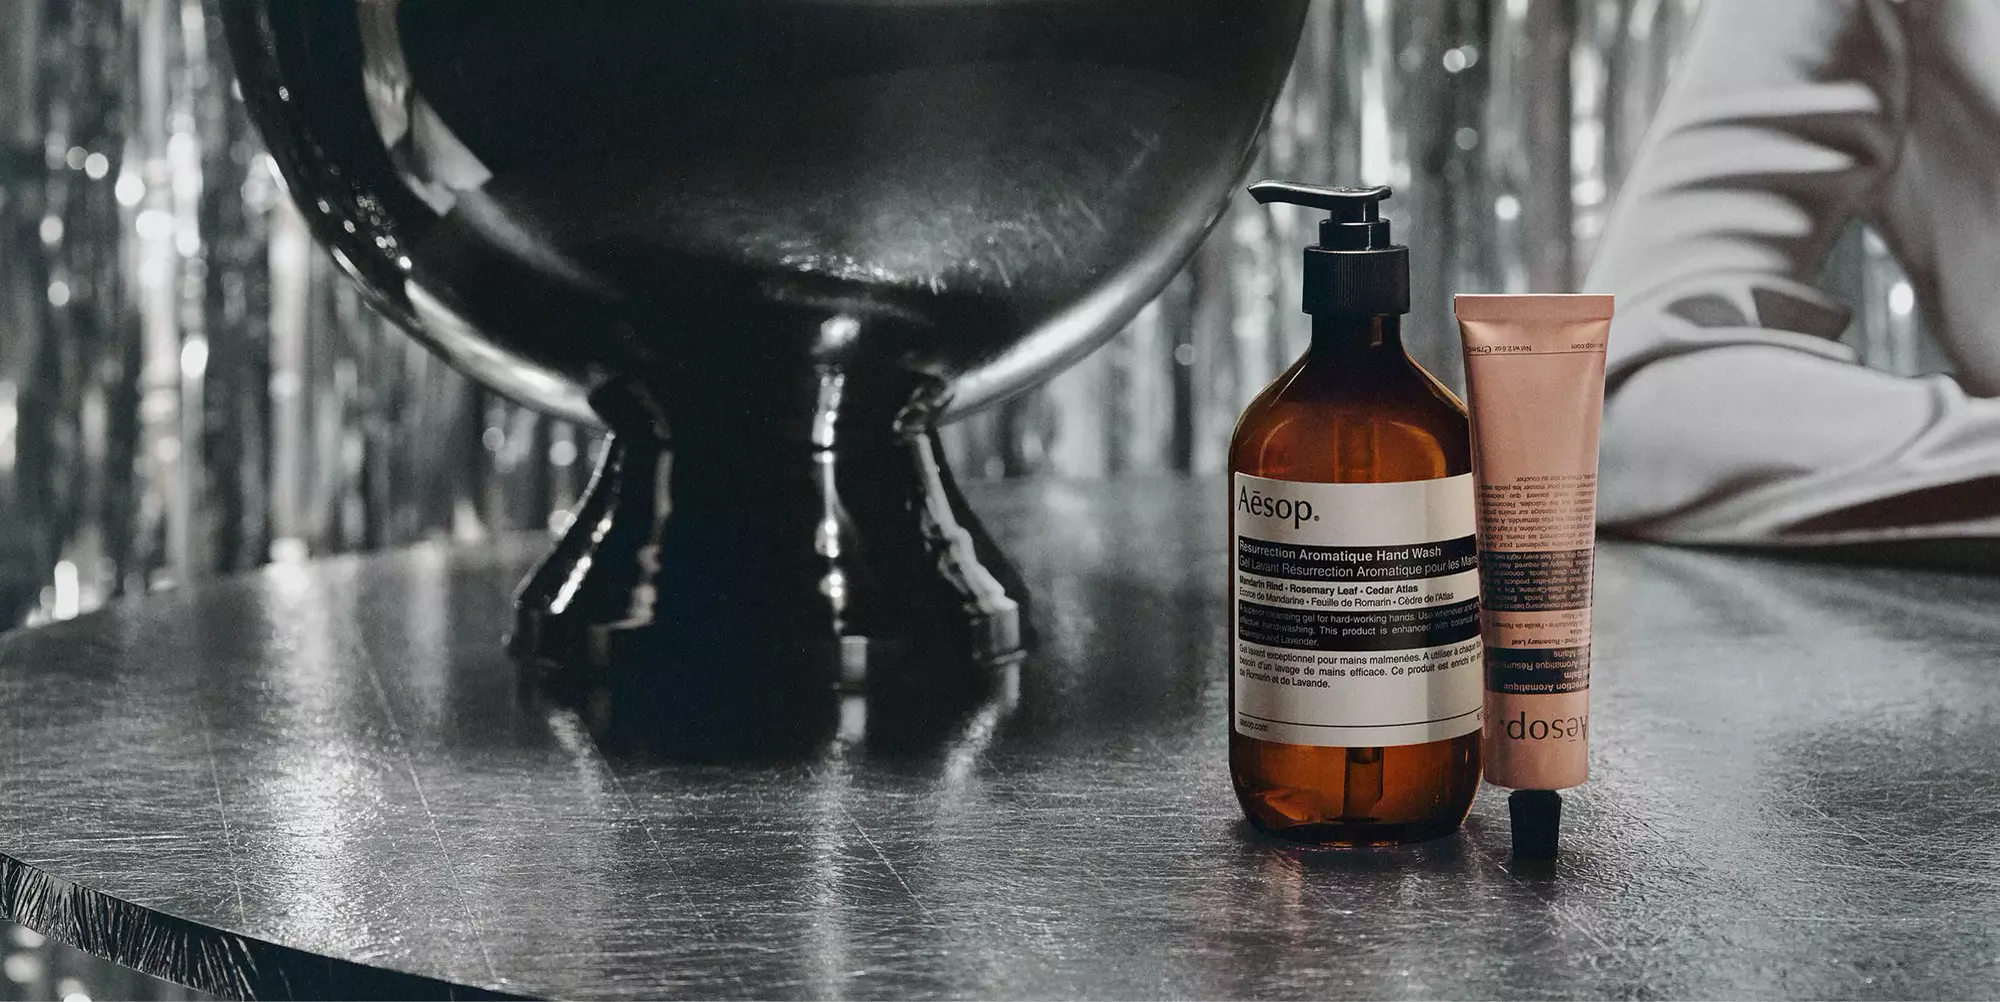
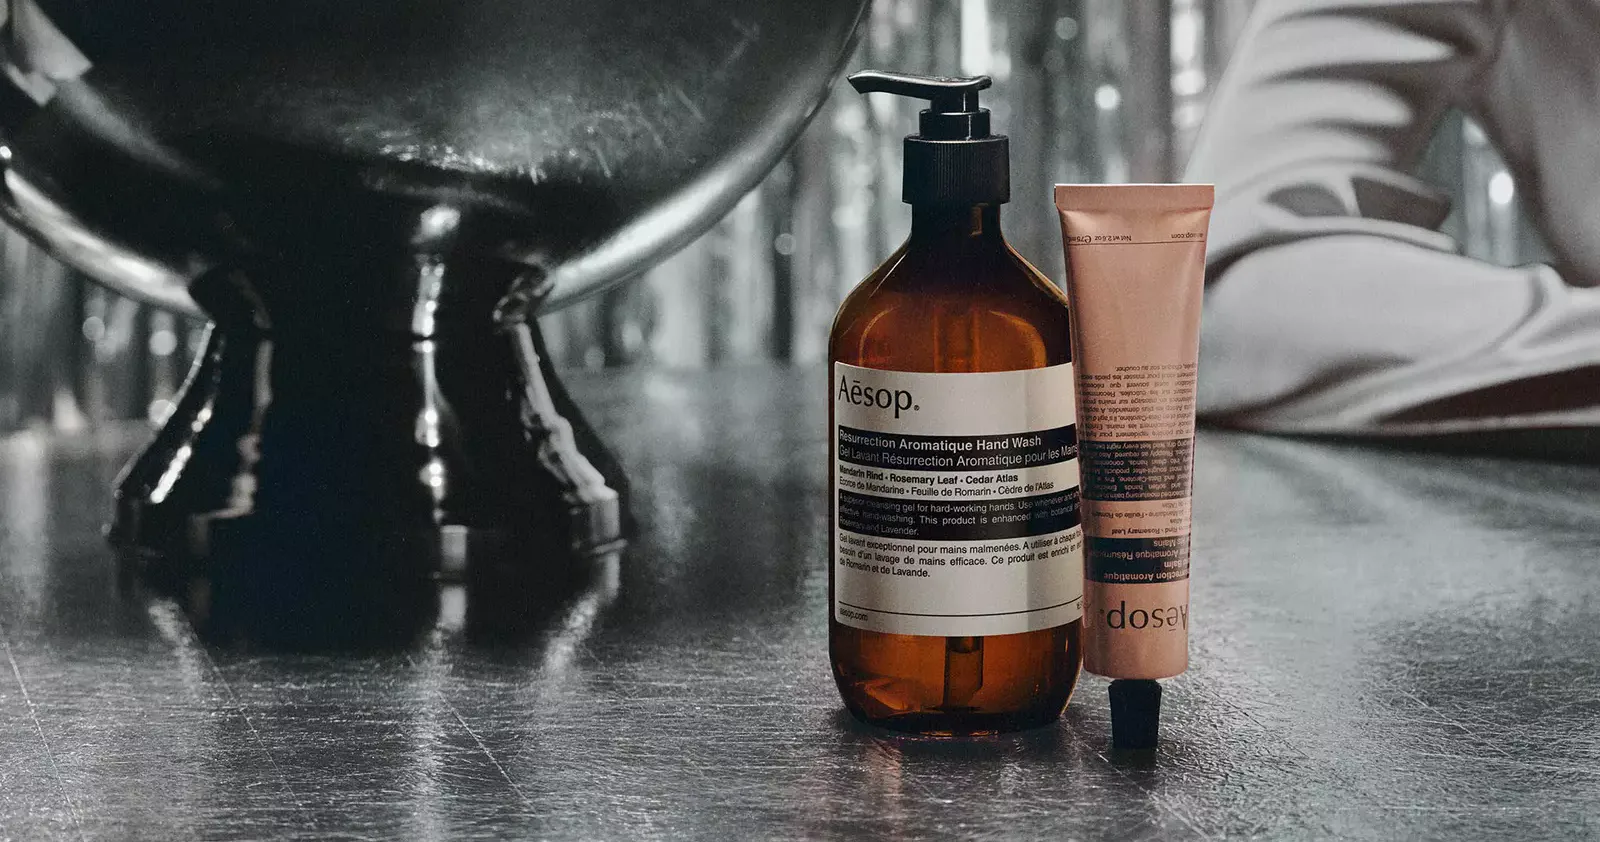
Product-focused brand band
Split the band: logo on the brand texture, product photo on the right,
re-cropped so the full Resurrection hand wash and balm are in frame,
with no dimming overlay. Keep the mobile header on one line.

diff --git a/css/styles.css b/css/styles.css
@@ -166,11 +166,16 @@ ul, ol { margin: 0; padding: 0; }
 }
 .store-hero:hover { text-decoration: none; color: #F3E9D8; }
 .store-hero__art, .store-hero__art > * { position: absolute; inset: 0; width: 100%; height: 100%; object-fit: cover; }
-.store-hero--photo::after {
-  content: ""; position: absolute; inset: 0;
-  background: radial-gradient(ellipse at 50% 50%, rgba(28, 16, 8, .38) 0%, rgba(28, 16, 8, .62) 75%);
+/* With a photo the band splits: logo on the brand texture (left), product photo uncropped and undimmed (right) */
+.store-hero--photo { grid-template-columns: minmax(0, 1fr) minmax(0, 1fr); place-items: stretch; }
+.store-hero--photo .store-hero__brand { align-self: center; justify-self: center; }
+.store-hero--photo .store-hero__art { position: relative; inset: auto; order: 2; }
+.store-hero--photo .store-hero__art > * { object-position: 50% 50%; }
+/* Soft fade so the photo melts into the brand texture instead of a hard seam */
+.store-hero--photo .store-hero__art::before {
+  content: ""; position: absolute; inset: 0 auto 0 0; width: 22%; z-index: 1; pointer-events: none;
+  background: linear-gradient(90deg, var(--band), rgba(74, 44, 25, 0));
 }
-.store-hero--photo .store-hero__art img { object-position: 50% 62%; }
 .store-hero__brand { position: relative; z-index: 2; display: grid; justify-items: center; text-align: center; }
 .aesop-logo {
   display: block; font-family: var(--f-logo); font-weight: 500;
@@ -808,8 +813,9 @@ ul, ol { margin: 0; padding: 0; }
 @media (max-width: 640px) {
   .amz-header { flex-wrap: wrap; padding: 6px 8px 8px; }
   .amz-search { order: 5; flex-basis: 100%; margin: 6px 0 0; }
-  .amz-account { margin-left: auto; }
-  .amz-account small { display: none; }
+  .amz-account { display: none; }
+  .amz-basket { margin-left: auto; }
+  .amz-logo__word { font-size: 20px; }
   .amz-basket b { display: none; }
   .grid { grid-template-columns: repeat(2, minmax(0, 1fr)); gap: 24px 12px; }
   .carousel__track { grid-auto-columns: 46%; gap: 12px; }
@@ -821,6 +827,8 @@ ul, ol { margin: 0; padding: 0; }
   .store-hero { height: 170px; margin-top: 12px; }
   .store-hero .aesop-logo { font-size: 64px; }
   .store-hero__line { margin-top: 8px; font-size: 11px; letter-spacing: .26em; }
+  .store-hero--photo .aesop-logo { font-size: 46px; }
+  .store-hero--photo .store-hero__line { font-size: 8.5px; letter-spacing: .18em; }
   .campaign { grid-template-columns: 1fr; margin-top: 12px; }
   .campaign__art { order: -1; height: 260px; min-height: 0; }
   .campaign--photo .campaign__art { position: relative; inset: auto; }
